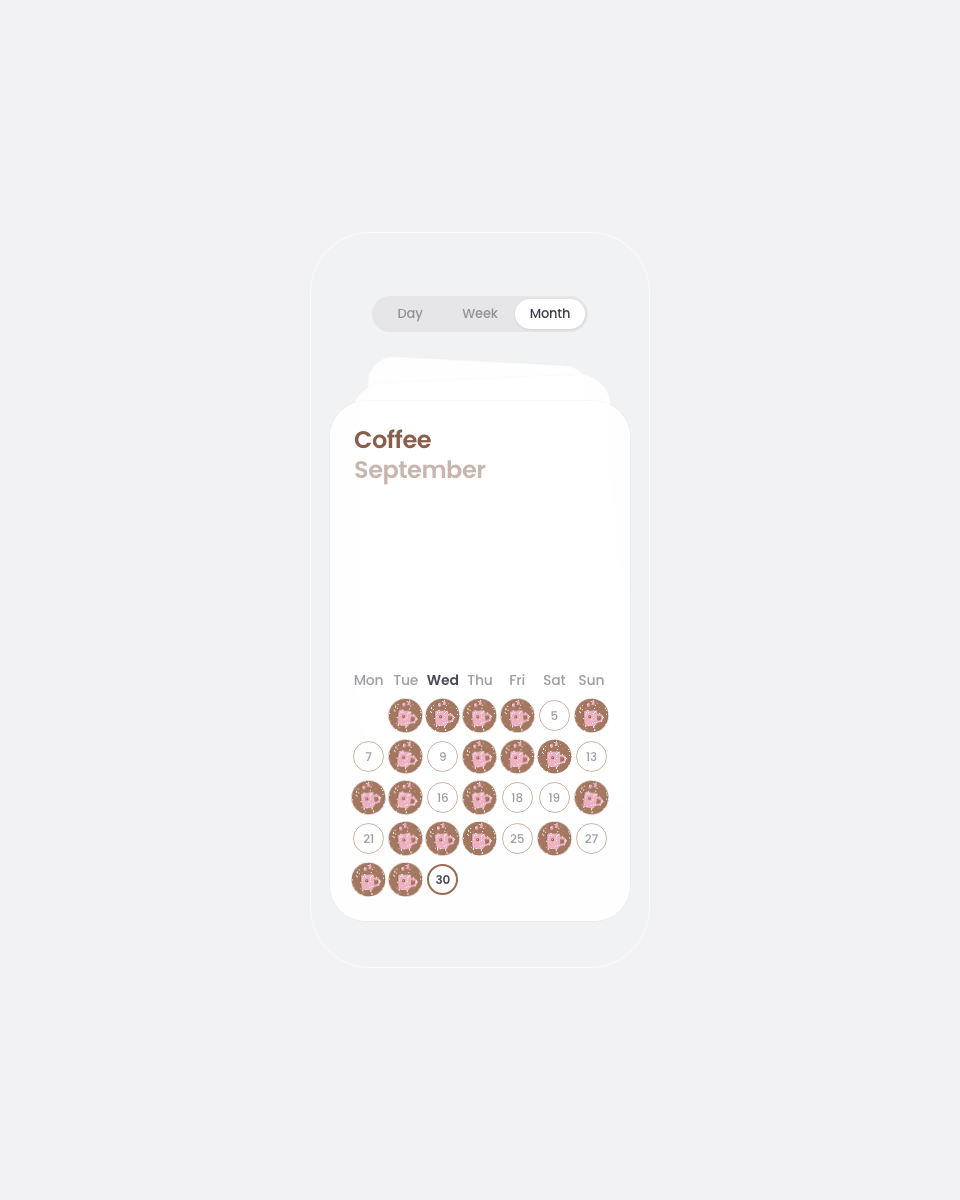
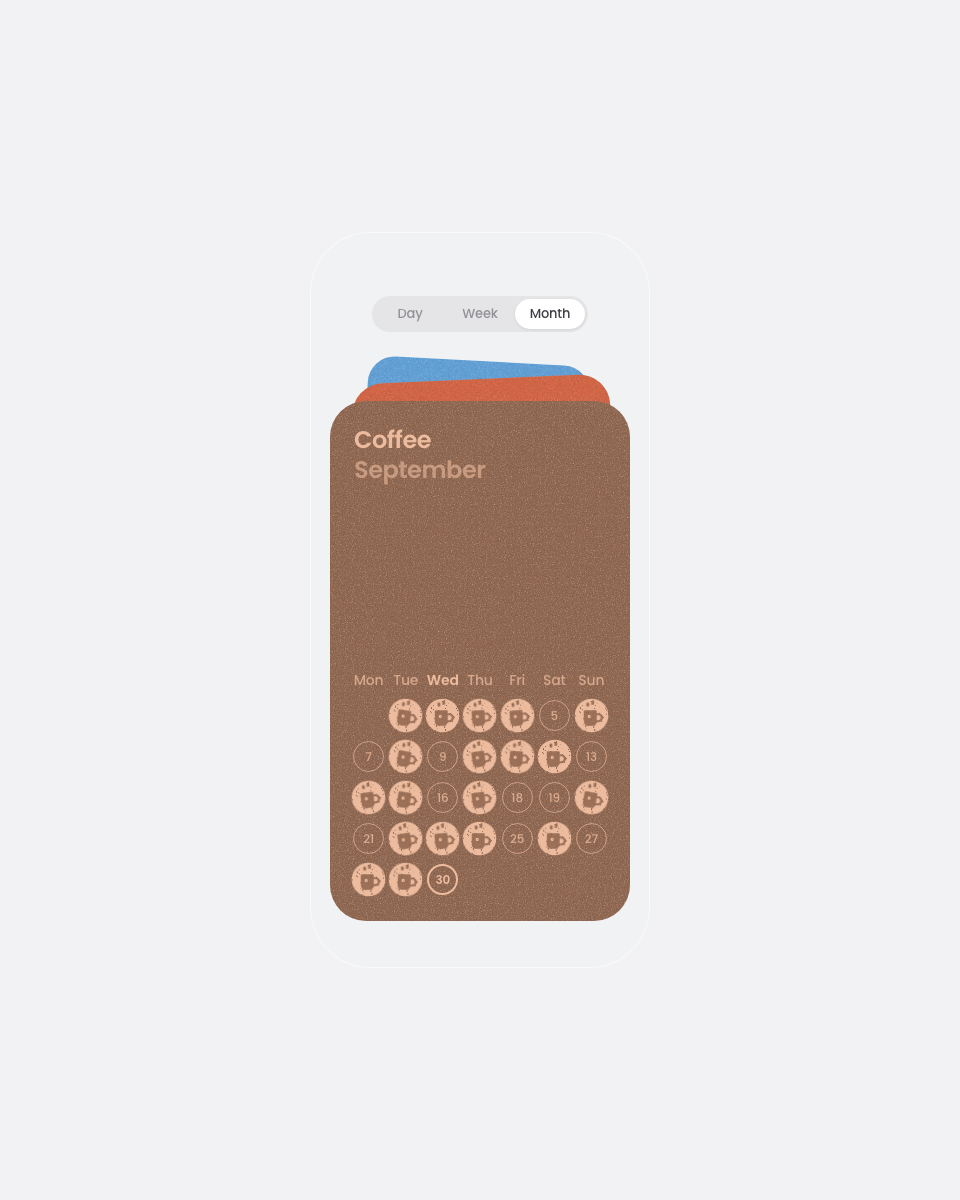
feat: Stamp Tracker — riso block cards with one-ink stamps in the pattern colour

Changed region(s): [[0.3438, 0.2775, 0.6562, 0.7708]]

diff --git a/components/data-visualization/stamp-tracker/stamp-tracker.tsx b/components/data-visualization/stamp-tracker/stamp-tracker.tsx
@@ -44,19 +44,19 @@ const FONT = "var(--font-poppins, Poppins), Poppins, ui-sans-serif, system-ui, s
 type Habit = {
   id: HabitId;
   name: string;
-  /** The disc, and the wash of the card. */
-  block: string;
-  /** The silhouette printed over the block. */
-  figure: string;
+  /** The card: a flat block of riso colour, like the blocks on the book cover. */
+  card: string;
+  /** The stamp: the pattern ink printed on that block — the disc, its rings and the card's type. */
+  stamp: string;
   /** Share of past days that start out stamped. */
   seed: number;
 };
 
 const HABITS: readonly Habit[] = [
-  { id: "coffee", name: "Coffee", block: "#9B6B52", figure: "#F4B6C8", seed: 0.68 },
-  { id: "move", name: "Move", block: "#E8684A", figure: "#F6C35B", seed: 0.62 },
-  { id: "water", name: "Water", block: "#6FB3E6", figure: "#F5DD4B", seed: 0.66 },
-  { id: "read", name: "Read", block: "#6CC3A0", figure: "#6E6AC2", seed: 0.64 },
+  { id: "coffee", name: "Coffee", card: "#9C7158", stamp: "#EDBC9F", seed: 0.68 },
+  { id: "move", name: "Move", card: "#E36F4C", stamp: "#F9C76F", seed: 0.62 },
+  { id: "water", name: "Water", card: "#6BAEE5", stamp: "#F8DF3E", seed: 0.66 },
+  { id: "read", name: "Read", card: "#5DB896", stamp: "#6560BE", seed: 0.64 },
 ];
 
 const VIEWS: readonly { id: View; label: string }[] = [
@@ -200,17 +200,12 @@ function Figure({ habit, ink }: { habit: HabitId; ink: string }) {
 function Print({ habit, textured, freshFigure }: { habit: Habit; textured?: string; freshFigure?: boolean }) {
   const content = (
     <>
-      <g style={{ mixBlendMode: "multiply" }}>
-        <circle cx="50" cy="50" r="48" fill={habit.block} opacity="0.92" />
-        {/* Ink pools at the rim of a stamp. */}
-        <circle cx="50" cy="50" r="47.2" fill="none" stroke={habit.block} strokeOpacity="0.35" strokeWidth="3.4" />
-      </g>
+      {/* One ink, like a rubber stamp: a disc of the pattern colour… */}
+      <circle cx="50" cy="50" r="48" fill={habit.stamp} />
+      {/* …with the silhouette left bare, so the card's own colour shows through it, a hair out of register. */}
       <motion.g initial={freshFigure ? { opacity: 0 } : false} animate={{ opacity: 1 }} transition={{ duration: 0.08, delay: 0.04 }}>
-        <g opacity="0.4" transform="translate(1.6 0.9)" style={{ mixBlendMode: "multiply" }}>
-          <Figure habit={habit.id} ink={habit.block} />
-        </g>
-        <g opacity="0.95" transform="translate(3.5 2.4)">
-          <Figure habit={habit.id} ink={habit.figure} />
+        <g transform="translate(2.4 1.6)">
+          <Figure habit={habit.id} ink={habit.card} />
         </g>
       </motion.g>
     </>
@@ -243,7 +238,7 @@ function StampButton({ variant, habit, cell, stamped, isToday, disabled, slam, i
   const tilt = (hash01(`${habit.id}:${variant}:tilt:${cell.iso}`) - 0.5) * v.tilt;
   const svgSize = v.size + v.pad;
   const offset = (v.size - svgSize) / 2;
-  const ring = disabled ? `${habit.block}29` : isToday ? habit.block : `${habit.block}80`;
+  const ring = disabled ? `${habit.stamp}4D` : isToday ? habit.stamp : `${habit.stamp}A6`;
 
   return (
     <button
@@ -279,10 +274,10 @@ function StampButton({ variant, habit, cell, stamped, isToday, disabled, slam, i
       >
         {big ? (
           <svg viewBox="0 0 100 100" width="100%" height="100%" style={{ display: "block", opacity: 0.18 }}>
-            <Figure habit={habit.id} ink={habit.block} />
+            <Figure habit={habit.id} ink={habit.stamp} />
           </svg>
         ) : (
-          <span style={{ fontWeight: isToday ? 600 : 500, fontSize: v.num, lineHeight: 1, color: INK, opacity: disabled ? 0.2 : isToday ? 0.85 : 0.45 }}>{cell.day}</span>
+          <span style={{ fontWeight: isToday ? 600 : 500, fontSize: v.num, lineHeight: 1, color: habit.stamp, opacity: disabled ? 0.4 : isToday ? 1 : 0.8 }}>{cell.day}</span>
         )}
       </span>
 
@@ -342,7 +337,7 @@ function StampButton({ variant, habit, cell, stamped, isToday, disabled, slam, i
                 initial={{ opacity: 0.9, x: 0, y: 0 }}
                 animate={{ opacity: 0, x: Math.cos(a) * v.fling, y: Math.sin(a) * v.fling }}
                 transition={{ duration: 0.5, ease: "easeOut" }}
-                style={{ width: s, height: s, left: v.size / 2 + Math.cos(a) * r - s / 2, top: v.size / 2 + Math.sin(a) * r - s / 2, background: habit.block }}
+                style={{ width: s, height: s, left: v.size / 2 + Math.cos(a) * r - s / 2, top: v.size / 2 + Math.sin(a) * r - s / 2, background: habit.stamp }}
               />
             );
           })
@@ -363,7 +358,7 @@ type DeckCardProps = {
   stamps: Stamps;
   cal: Calendar;
   pressed: { habit: HabitId; iso: string; token: number } | null;
-  inkFilters: { day: string; hero: string; grain: string };
+  inkFilters: { day: string; hero: string; grain: string; fleck: string };
   reduce: boolean;
   onToggle: (habit: HabitId, iso: string) => void;
   onSwipe: (dir: 1 | -1) => void;
@@ -417,7 +412,7 @@ function DeckCard({ habit, depth, entered, view, x, stamps, cal, pressed, inkFil
   const labelRow = (cols: number | null) => (
     <div className="grid" style={{ gridTemplateColumns: "repeat(7, 1fr)" }}>
       {WEEKDAYS.map((w, c) => (
-        <span key={w} className="text-center" style={{ fontWeight: c === cols ? 600 : 500, fontSize: 14, lineHeight: "20px", opacity: c === cols ? 0.85 : 0.45 }}>
+        <span key={w} className="text-center" style={{ fontWeight: c === cols ? 600 : 500, fontSize: 14, lineHeight: "20px", opacity: c === cols ? 1 : 0.75 }}>
           {w}
         </span>
       ))}
@@ -465,27 +460,27 @@ function DeckCard({ habit, depth, entered, view, x, stamps, cal, pressed, inkFil
           rotate,
           transformOrigin: "50% 100%",
           borderRadius: CARD_RADIUS,
-          // Frosted glass: whitish and translucent over the stack behind.
-          background: "rgba(255,255,255,0.9)",
-          backdropFilter: "blur(24px) saturate(140%)",
-          WebkitBackdropFilter: "blur(24px) saturate(140%)",
-          // Hairlines only — no drop shadow.
-          boxShadow: "inset 0 0 0 1px rgba(255,255,255,0.75), 0 0 0 0.5px rgba(43,42,51,0.06)",
+          // A flat block of riso colour; its type and stamps are printed in the pattern ink.
+          background: habit.card,
           touchAction: "pan-y",
           cursor: front ? "grab" : "default",
-          color: INK,
+          color: habit.stamp,
           padding: CARD_PAD,
         }}
       >
-        {/* Only the front card shows its contents, so no colour blurs through the glass from the cards behind. */}
+        {/* Printed noise over the block — dark specks where the ink sat heavy, light ones where the drum ran dry. */}
+        <svg aria-hidden className="pointer-events-none absolute inset-0" width="100%" height="100%">
+          <rect width="100%" height="100%" filter={`url(#${inkFilters.grain})`} style={{ opacity: 0.35, mixBlendMode: "multiply" }} />
+          <rect width="100%" height="100%" filter={`url(#${inkFilters.fleck})`} style={{ opacity: 0.4 }} />
+        </svg>
+        {/* Only the front card shows its contents; the cards behind are bare blocks of colour. */}
         <div className="relative flex h-full flex-col" style={{ opacity: front ? 1 : 0, transition: "opacity 250ms ease" }}>
           {/* The header: the habit, and under it what the card is showing, the same size in grey. */}
-          {/* Printed in the habit's own ink, deepened a touch so the light inks still read on white. */}
-          <div style={{ fontWeight: 600, fontSize: 24, lineHeight: "30px", letterSpacing: "-0.02em", color: `color-mix(in srgb, ${habit.block} 82%, ${INK})` }}>
+                    <div style={{ fontWeight: 600, fontSize: 24, lineHeight: "30px", letterSpacing: "-0.02em" }}>
             <h3 className="m-0" style={{ font: "inherit", letterSpacing: "inherit" }}>
               {habit.name}
             </h3>
-            <div className="relative" style={{ height: 30, opacity: 0.45 }}>
+            <div className="relative" style={{ height: 30, opacity: 0.6 }}>
               <AnimatePresence initial={false} mode="wait">
                 <motion.div key={view} className="absolute inset-x-0 top-0 whitespace-nowrap" {...fade(reduce)}>
                   {subtitle}
@@ -518,7 +513,7 @@ function DeckCard({ habit, depth, entered, view, x, stamps, cal, pressed, inkFil
               {view === "day" ? (
                 <motion.div key="day" className="absolute inset-x-0 bottom-0 flex flex-col items-center" style={{ paddingBottom: 56 }} {...fade(reduce)}>
                   {button("day", todayCell)}
-                  <div style={{ marginTop: 18, fontWeight: 400, fontSize: 16, lineHeight: "22px", opacity: 0.45 }}>{cal.day.label}</div>
+                  <div style={{ marginTop: 18, fontWeight: 400, fontSize: 16, lineHeight: "22px", opacity: 0.75 }}>{cal.day.label}</div>
                 </motion.div>
               ) : null}
             </AnimatePresence>
@@ -800,7 +795,7 @@ export function StampTracker({ today = DEFAULT_TODAY, loop = false, onChange, cl
     void advance(event.key === "ArrowRight" ? 1 : -1);
   };
 
-  const inkFilters = { day: `${uid}-day`, hero: `${uid}-hero`, grain: `${uid}-grain` };
+  const inkFilters = { day: `${uid}-day`, hero: `${uid}-hero`, grain: `${uid}-grain`, fleck: `${uid}-fleck` };
 
   return (
     <MotionConfig reducedMotion="user">
@@ -843,6 +838,10 @@ export function StampTracker({ today = DEFAULT_TODAY, loop = false, onChange, cl
               <filter id={inkFilters.grain} x="0" y="0" width="100%" height="100%">
                 <feTurbulence type="fractalNoise" baseFrequency="0.9" numOctaves="2" seed="4" />
                 <feColorMatrix type="matrix" values="0 0 0 0 0.17  0 0 0 0 0.16  0 0 0 0 0.2  0 0 0 1.6 -0.35" />
+              </filter>
+              <filter id={inkFilters.fleck} x="0" y="0" width="100%" height="100%">
+                <feTurbulence type="fractalNoise" baseFrequency="0.85" numOctaves="2" seed="9" />
+                <feColorMatrix type="matrix" values="0 0 0 0 1  0 0 0 0 1  0 0 0 0 1  0 0 0 2.2 -1.25" />
               </filter>
             </defs>
           </svg>

diff --git a/src/lib/component-registry.ts b/src/lib/component-registry.ts
@@ -345,7 +345,7 @@ export const componentRegistry = {
     index: "018",
     title: "Stamp Tracker",
     description:
-      "Four habits on tall frosted-glass cards in a bare phone screen, stacked like iOS widgets so the sheets behind blur softly through the front one — swipe through coffee, move, water and read, and flip the deck between Day, Week and Month with a quiet segmented switch. Tap a day and a rubber stamp slams down, leaving a flat riso disc with a rounded silhouette printed a hair out of register, rough-edged and speckled",
+      "Four habits as a deck of riso-printed cards on a pale phone screen, each card a flat, noisy block of colour lifted from a risograph book cover — cocoa, coral, sky and mint — with the cards behind fanned just above the front one. Switch between day, week and month; tap a day and a one-ink rubber stamp slams down in the pattern colour, the habit’s silhouette left bare so the card shows through, rough-edged and speckled",
     category: "Data Visualization",
     status: "NEW",
     statusClassName: "bg-[var(--jitter-orange)]/12 text-[var(--jitter-orange)]",

diff --git a/components/data-visualization/stamp-tracker/README.md b/components/data-visualization/stamp-tracker/README.md
@@ -1,6 +1,6 @@
 # Stamp Tracker
 
-Four habits on tall frosted-glass cards in a bare phone screen, stacked like iOS widgets so the sheets behind blur softly through the front one — swipe through coffee, move, water and read, and flip the deck between Day, Week and Month with a quiet segmented switch. Tap a day and a rubber stamp slams down, leaving a flat riso disc with a rounded silhouette printed a hair out of register, rough-edged and speckled
+Four habits as a deck of riso-printed cards on a pale phone screen, each card a flat, noisy block of colour lifted from a risograph book cover — cocoa, coral, sky and mint — with the cards behind fanned just above the front one. Switch between day, week and month; tap a day and a one-ink rubber stamp slams down in the pattern colour, the habit’s silhouette left bare so the card shows through, rough-edged and speckled
 
 ![Stamp Tracker preview](https://raw.githubusercontent.com/michellesijiama/atomicmotion-ui/main/public/previews/stamp-tracker.png)
 
